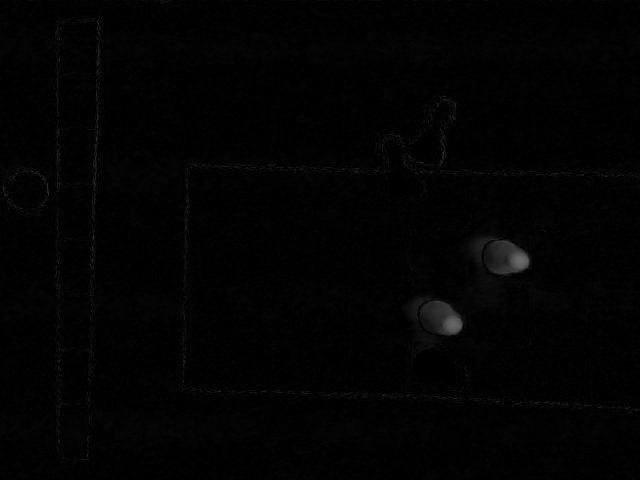
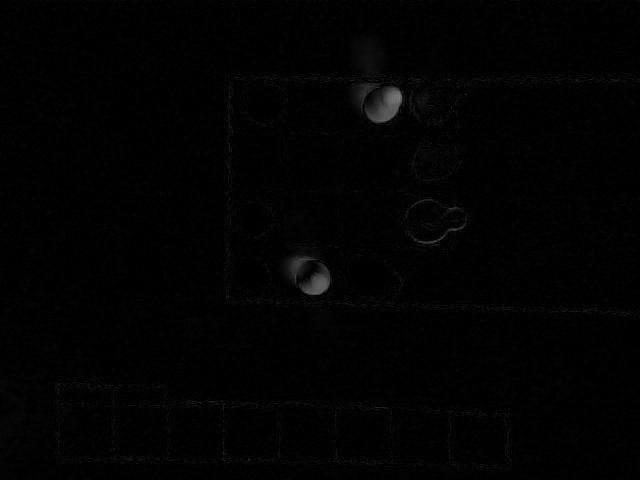
INICIO

diff --git a/src/imagem/Imagem.java b/src/imagem/Imagem.java
@@ -16,8 +16,8 @@ import javax.imageio.ImageIO;
 public class Imagem {
 
     public static void main(String[] args) throws Exception {
-        BufferedImage image1 = ImageIO.read(new File("novapasta/test-7.jpg"));
-        BufferedImage image2 = ImageIO.read(new File("novapasta/test-6.jpg"));
+        BufferedImage image1 = ImageIO.read(new File("novapasta/test-0.jpg"));
+        BufferedImage image2 = ImageIO.read(new File("novapasta/test-1.jpg"));
         BufferedImage image3 = new BufferedImage(image1.getWidth(), image1.getHeight(), image1.getType());
         for (int x = 0; x < image1.getWidth(); x++) {
             for (int y = 0; y < image1.getHeight(); y++) {
